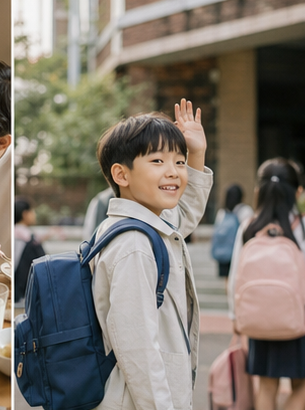
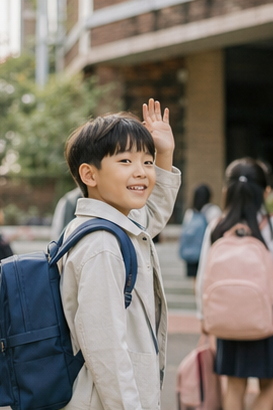
[FE] fix: 타임캡슐 로컬 오픈 및 사진 크롭 보정

diff --git a/frontend/src/views/timeCapsules/TimeCapsuleOpenView.vue b/frontend/src/views/timeCapsules/TimeCapsuleOpenView.vue
@@ -245,7 +245,11 @@ const saveOverviewScene = () => {
 const router = useRouter()
 const route = useRoute()
 const goBack = () => router.back()
-const goToList = () => router.push(`/time-capsules/${String(route.params.capsuleListId ?? 'local')}`)
+const routeCapsuleListId = computed(() => String(route.params.capsuleListId ?? 'local'))
+const isLocalTimeCapsuleRoute = computed(
+  () => route.name === 'LocalTimeCapsuleOpen' || routeCapsuleListId.value === 'local',
+)
+const goToList = () => router.push(`/time-capsules/${routeCapsuleListId.value}`)
 
 const applyLocalTimeCapsuleFallback = () => {
   allMemories.value = localTimeCapsuleMemories
@@ -262,12 +266,18 @@ onMounted(async () => {
   }
 
   try {
-    if (import.meta.env.DEV && route.params.capsuleListId === 'local') {
+    if (import.meta.env.DEV && isLocalTimeCapsuleRoute.value) {
       applyLocalTimeCapsuleFallback()
       return
     }
 
-    const { data } = await api.getTimeCapsuleEntriesUsingGET(Number(route.params.capsuleListId))
+    const capsuleListId = Number(route.params.capsuleListId)
+    if (!Number.isFinite(capsuleListId)) {
+      applyLocalTimeCapsuleFallback()
+      return
+    }
+
+    const { data } = await api.getTimeCapsuleEntriesUsingGET(capsuleListId)
     const details = await Promise.all((data.entries ?? []).map(({ time_capsule_entry_id }) =>
       api.getTimeCapsuleEntryUsingGET(time_capsule_entry_id ?? 0).then(({ data: detail }) => detail),
     ))

diff --git a/frontend/src/views/timeCapsules/TimeCapsuleArchiveView.vue b/frontend/src/views/timeCapsules/TimeCapsuleArchiveView.vue
@@ -1,5 +1,5 @@
 <script setup lang="ts">
-import { computed, onBeforeUnmount, onMounted, ref } from 'vue'
+import { computed, nextTick, onBeforeUnmount, onMounted, ref } from 'vue'
 import { Check, Plus, X } from 'lucide-vue-next'
 import { useRouter, type RouteLocationRaw } from 'vue-router'
 import calendarImage from '@/assets/images/timeCapsules/archive/calendar.png'
@@ -448,11 +448,13 @@ const completeUnlockFlow = async () => {
 
   markUnlockAnimationSeen(capsule)
   window.sessionStorage.setItem(OPEN_FLASH_STORAGE_KEY, 'true')
+  resetUnlockFlow()
+  await nextTick()
 
   try {
     await router.push(getOpenRoute(capsule))
   } catch {
-    resetUnlockFlow()
+    // Keep the archive usable if navigation is interrupted.
   }
 }
 
@@ -1346,7 +1348,7 @@ onBeforeUnmount(resetUnlockFlow)
 
 .unlock-panel {
   --unlock-size: min(94vw, 58dvh, 520px);
-  --unlock-x: -50%;
+  --unlock-x: -55%;
 
   z-index: 2;
   cursor: default;
